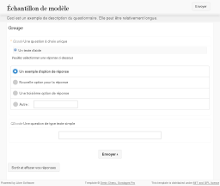
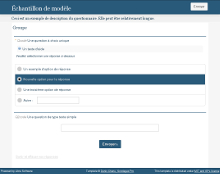
Theme for SkeletonQuest : flatblue

diff --git a/template.css b/template.css
@@ -1,0 +1,123 @@
+/**
+* This file is part of LimeSurvey template SkeletonQuest
+* Make your your change here
+**/
+body{background:#f6f6f6;color:#1e4057;}
+h1, h2, h3, h4, h5, h6 {color: #1e4057;}
+a, a:visited { color: #2a5a7a;}
+a:hover, a:focus { color: #1e4057; }
+#head{
+  border-top:2px solid #1e4057;
+  color:#fff;
+  background:#2a5a7a;
+}
+#head h1{
+  color:#fff;
+}
+.subtitle{
+  background:transparent;color:inherit;
+}
+#footer{
+  border-top:2px solid #1e4057;
+  color:#fff;
+  background:#2a5a7a;
+}
+#footer a, #footer a:visited {color:#fff;}
+#footer a:hover, #footer a:focus, #footer a:active {color: #ffffff;}
+
+#movenextbtn,#movesubmitbtn{
+  background-color:#2a5a7a;color:#fff;text-shadow: 0 1px rgba(0, 0, 0, 0.75);
+}
+#movenextbtn:hover,#movesubmitbtn:hover,#movenextbtn:focus,#movesubmitbtn:focus{
+  background-color:#6789a0;
+}
+#movenextbtn:active,#movesubmitbtn:active{
+  background-color:#6789a0;
+
+}
+#movenextbtn .ui-icon,#movesubmitbtn .ui-icon{
+    background-image: url("images/ui-icons_ededed_256x240.png");
+}
+
+li.radio-item label,li.checkbox-item label
+  {background-color: #FFF;}
+li.radio-item.other-item,li.checkbox-item.other-item,li.checkbox-text-item.other-item .option
+  {background-color: #FFF;}
+li.radio-item.other-item label,li.checkbox-item.other-item label
+  {background-color: transparent;}
+/* checked */
+li.radio-item input.radio:checked + label,li.checkbox-item input.checkbox:checked + label
+  {background:#6789a0;color:#FFF;}
+li.other-item input.radio:checked + label,li.other-item input.checkbox:checked + label
+  {background:transparent;color:inherit;}
+li.other-item.checked
+  {background:#6789a0;color:#FFF;}
+/* hover et focus */
+li.radio-item label:hover,li.radio-item input.radio:focus + label,li.checkbox-item  input.checkbox + label:hover,li.checkbox-item  input.checkbox:focus + label
+  {background:#2a5a7a;color:#fff}
+.js li.other-item:hover
+  {background:#2a5a7a;color:#fff}
+.js li.other-item:hover label
+  {color:#fff}
+li.radio-item input.radio[disabled] + label,li.checkbox-item input.checkbox[disabled] + label
+{
+  background:transparent;
+   cursor:inherit;color:#666;
+}
+
+.js table.question tbody tr td.radio-item:hover {background: #2a5a7a;}
+.js td.radio-item.checked{background-color:#6789a0;}
+.js table.question tbody tr td.checkbox-item:hover {background: #2a5a7a;}
+.js td.checkbox-item.checked{background-color:#6789a0;}
+
+li.checkbox-item input[type=checkbox] + label:before,
+li.checkbox-text-item input[type=checkbox] + label:before,
+td.checkbox-item input[type=checkbox] + label
+ {
+	background-color: #CCC;
+}
+li.radio-item input[type=radio] + label:before,
+td.radio-item input[type=radio] + label
+{
+	border-color: #CCC;
+	background-color: #CCC;
+}
+li.checkbox-item input[type=checkbox]:checked + label:before,
+li.checkbox-text-item input[type=checkbox]:checked + label:before,
+td.checkbox-item input[type=checkbox]:checked + label
+{
+    background-color: #CCC;
+    border-color: #CCC;
+}
+li.radio-item input[type=radio]:checked + label:before,
+td.radio-item input[type=radio]:checked + label
+{
+	border-color: #CCC;
+	background-color:#000;
+}
+li.checkbox-item input[type=checkbox]:hover + label:before,
+li.checkbox-item input[type=checkbox] + label:hover:before,
+li.checkbox-text-item input[type=checkbox]:hover + label:before,
+li.checkbox-text-item input[type=checkbox] + label:hover:before,
+.js td.checkbox-item:hover input[type=checkbox] + label,
+{
+    background-color: #CCC;
+    border-color: #CCC;
+}
+
+.question-wrapper {
+  border:none;
+  border-top:2px solid #2a5a7a;
+  -webkit-border-radius: 0;border-radius: 0;
+}
+.question-text{
+  border-bottom:none;
+}
+@media print {
+    body{background-color:#fff;background-image:none;font: 12pt "Luxi sans", "Lucida Grande", Lucida, "Lucida Sans Unicode", sans-serif;color: #000;}
+    #head{background:#fff;}
+    .pagesubtitle{background:#ffffff}
+    #footer {display:none}
+    a:link,a:visited { color: #520; }
+    #head h1 {color: #000;}
+}
